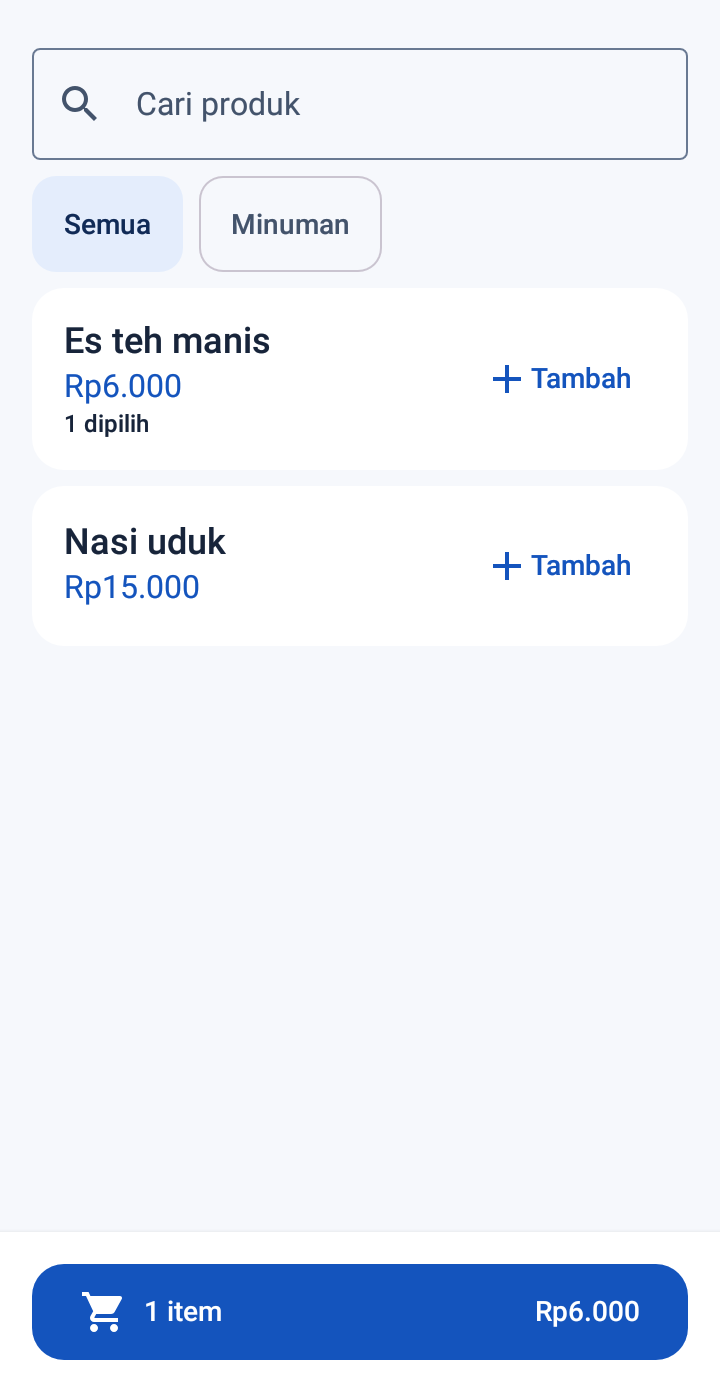
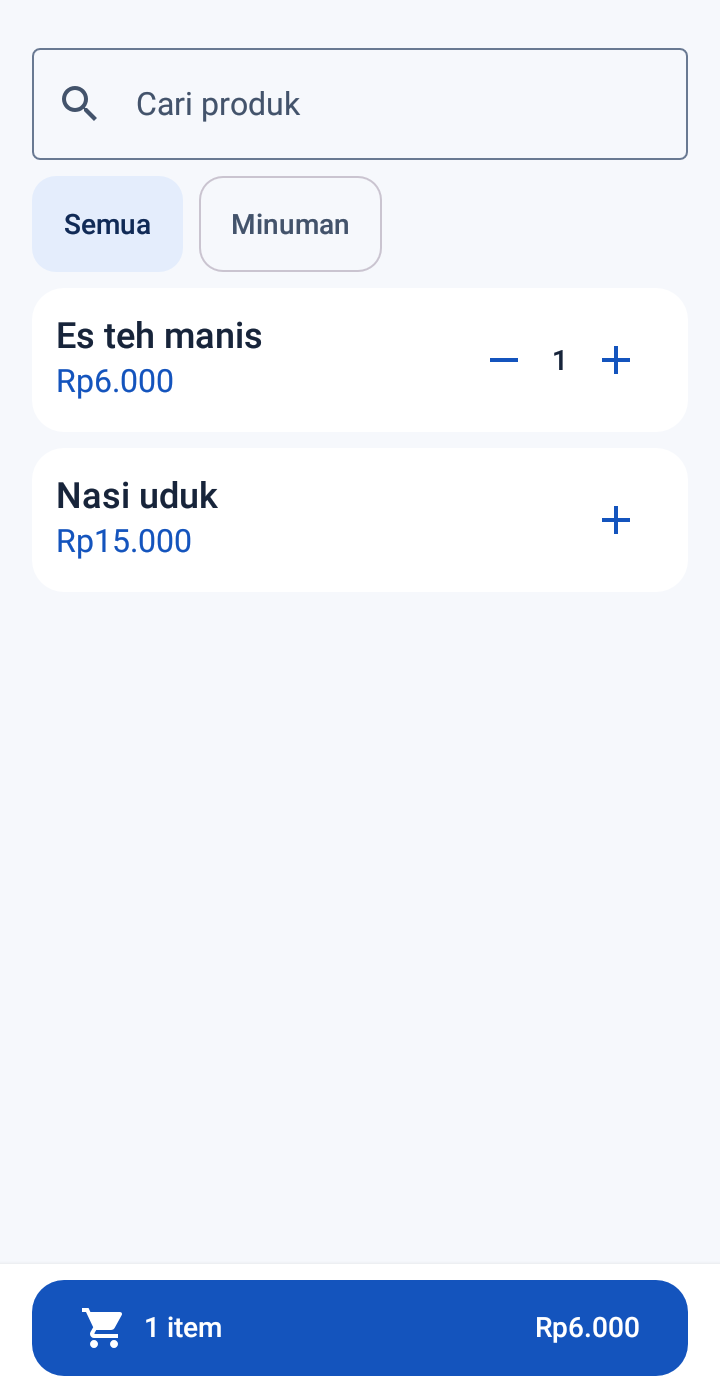
Finalize Phase 2 Android quality checks

diff --git a/app/src/main/java/id/umkmku/pos/ui/Screens.kt b/app/src/main/java/id/umkmku/pos/ui/Screens.kt
@@ -15,7 +15,6 @@ import androidx.compose.foundation.lazy.items
 import androidx.compose.foundation.rememberScrollState
 import androidx.compose.material.icons.Icons
 import androidx.compose.material.icons.automirrored.filled.ArrowForward
-import androidx.compose.material.icons.filled.Add
 import androidx.compose.material.icons.filled.Search
 import androidx.compose.material.icons.filled.ShoppingCart
 import androidx.compose.material3.Button
@@ -107,7 +106,7 @@ private fun CatalogCount(count: Int, label: String, modifier: Modifier = Modifie
 fun Cashier(
     state: CatalogState,
     quantities: Map<String, Int>,
-    onAdd: (String) -> Unit,
+    onQuantity: (String, Int) -> Unit,
     onCart: () -> Unit,
     onCatalog: () -> Unit,
     onRetry: () -> Unit,
@@ -152,16 +151,15 @@ fun Cashier(
                 if (products.isEmpty()) item { MessagePanel("Produk tidak ditemukan", "Ubah kata kunci atau pilih kategori lain.") }
                 items(products, key = { it.id }) { product ->
                     val count = quantities[product.id] ?: 0
-                    Panel {
+                    Panel(contentPadding = Space.md) {
                         Row(verticalAlignment = Alignment.CenterVertically, horizontalArrangement = Arrangement.spacedBy(Space.sm)) {
                             Column(Modifier.weight(1f)) {
                                 Text(product.name, style = MaterialTheme.typography.titleMedium)
                                 Text(rupiah(product.price), color = MaterialTheme.colorScheme.primary)
-                                if (count > 0) Text("$count dipilih", style = MaterialTheme.typography.labelSmall)
                             }
-                            TextButton(onClick = { focus.clearFocus(); onAdd(product.id) }, enabled = count < 9999, modifier = Modifier.heightIn(min = Space.touch)) {
-                                Icon(Icons.Default.Add, null)
-                                Text("Tambah")
+                            QuantityStepper(product.name, count) { delta ->
+                                focus.clearFocus()
+                                onQuantity(product.id, delta)
                             }
                         }
                     }
@@ -177,7 +175,7 @@ private fun CartBar(lines: List<CartLine>, onCart: () -> Unit) {
     Surface(color = MaterialTheme.colorScheme.surface, shadowElevation = Space.xs) {
         Button(
             onClick = onCart,
-            modifier = Modifier.fillMaxWidth().padding(Space.page).heightIn(min = Space.touch),
+            modifier = Modifier.fillMaxWidth().padding(horizontal = Space.page, vertical = Space.sm).heightIn(min = Space.touch),
             shape = MaterialTheme.shapes.medium,
         ) {
             Icon(Icons.Default.ShoppingCart, null)
@@ -189,17 +187,15 @@ private fun CartBar(lines: List<CartLine>, onCart: () -> Unit) {
 
 @Composable
 fun CartScreen(lines: List<CartLine>, onQuantity: (String, Int) -> Unit) {
-    LazyColumn(contentPadding = PaddingValues(Space.page), verticalArrangement = Arrangement.spacedBy(Space.sm)) {
+    LazyColumn(Modifier.fillMaxSize().testTag("cart"), contentPadding = PaddingValues(Space.page), verticalArrangement = Arrangement.spacedBy(Space.sm)) {
         if (lines.isEmpty()) item { MessagePanel("Keranjang kosong", "Tambahkan produk dari Kasir.") }
         items(lines, key = { it.product.id }) { line ->
-            Panel {
+            Panel(contentPadding = Space.md) {
                 Text(line.product.name, style = MaterialTheme.typography.titleMedium)
                 Text("${line.quantity} × ${rupiah(line.product.price)}", color = MaterialTheme.colorScheme.onSurfaceVariant)
                 Row(verticalAlignment = Alignment.CenterVertically) {
                     Text(rupiah(line.subtotal), Modifier.weight(1f), style = MaterialTheme.typography.titleMedium)
-                    TextButton({ onQuantity(line.product.id, -1) }, modifier = Modifier.heightIn(min = Space.touch)) { Text("Kurangi") }
-                    TextButton({ onQuantity(line.product.id, 1) }, enabled = line.quantity < 9999,
-                        modifier = Modifier.heightIn(min = Space.touch)) { Text("Tambah") }
+                    QuantityStepper(line.product.name, line.quantity) { onQuantity(line.product.id, it) }
                 }
             }
         }
@@ -228,7 +224,7 @@ private fun DashboardPreview() {
 private fun CashierPreview() {
     WarungTheme {
         Surface(color = MaterialTheme.colorScheme.background) {
-            Cashier(CatalogState.Ready(previewCatalog), mapOf("1" to 1), {}, {}, {}, {})
+            Cashier(CatalogState.Ready(previewCatalog), mapOf("1" to 1), { _, _ -> }, {}, {}, {})
         }
     }
 }

diff --git a/app/src/androidTest/java/id/umkmku/pos/ScreenTest.kt b/app/src/androidTest/java/id/umkmku/pos/ScreenTest.kt
@@ -2,10 +2,19 @@ package id.umkmku.pos
 
 import android.graphics.Bitmap
 import android.graphics.BitmapFactory
+import androidx.compose.foundation.layout.Box
 import androidx.compose.foundation.layout.fillMaxSize
+import androidx.compose.foundation.layout.width
 import androidx.compose.material3.MaterialTheme
 import androidx.compose.material3.Surface
+import androidx.compose.runtime.CompositionLocalProvider
 import androidx.compose.runtime.mutableStateOf
+import androidx.compose.ui.platform.LocalDensity
+import androidx.compose.ui.unit.Density
+import androidx.compose.ui.unit.dp
+import androidx.compose.ui.test.onNodeWithContentDescription
+import id.umkmku.pos.domain.CartLine
+import id.umkmku.pos.ui.CartScreen
 import androidx.compose.ui.Modifier
 import androidx.compose.ui.graphics.asAndroidBitmap
 import androidx.compose.ui.test.assertIsDisplayed
@@ -54,7 +63,7 @@ class ScreenTest {
         val state = mutableStateOf<CatalogState>(CatalogState.Ready(Catalog()))
         var openedCatalog = false
         compose.setContent {
-            WarungTheme { Cashier(state.value, emptyMap(), {}, {}, { openedCatalog = true }, {}) }
+            WarungTheme { Cashier(state.value, emptyMap(), { _, _ -> }, {}, { openedCatalog = true }, {}) }
         }
         compose.onNodeWithText("Belum ada produk").assertIsDisplayed()
         compose.onNodeWithText("Kelola katalog").performClick()
@@ -81,12 +90,42 @@ class ScreenTest {
         compose.setContent {
             WarungTheme {
                 Surface(Modifier.fillMaxSize(), color = MaterialTheme.colorScheme.background) {
-                    Cashier(CatalogState.Ready(fixture), mapOf("tea" to 1), {}, {}, {}, {})
+                    Cashier(CatalogState.Ready(fixture), mapOf("tea" to 1), { _, _ -> }, {}, {}, {})
                 }
             }
         }
         compose.onNodeWithText("1 item").assertIsDisplayed()
         compareScreenshot("cashier")
+    }
+
+    @Test fun longNameAndStepperFit320DpAt200Percent() {
+        val product = Product("long", "Paket nasi uduk ayam goreng sambal dan lalapan untuk keluarga", 15000, null)
+        val count = mutableStateOf(1)
+        compose.setContent {
+            WarungTheme {
+                CompositionLocalProvider(LocalDensity provides Density(LocalDensity.current.density, 2f)) {
+                    Box(Modifier.width(320.dp)) {
+                        CartScreen(listOf(CartLine(product, count.value))) { _, delta -> count.value += delta }
+                    }
+                }
+            }
+        }
+        compose.onNodeWithText(product.name).assertIsDisplayed()
+        compose.onNodeWithContentDescription("Tambah ${product.name}").performClick()
+        compose.onNodeWithContentDescription("2 item ${product.name}").assertIsDisplayed()
+        compose.onNodeWithContentDescription("Kurangi ${product.name}").performClick()
+        compose.onNodeWithContentDescription("1 item ${product.name}").assertIsDisplayed()
+    }
+
+    @Test fun cartScreenshot() {
+        compose.setContent {
+            WarungTheme {
+                Surface(Modifier.fillMaxSize(), color = MaterialTheme.colorScheme.background) {
+                    CartScreen(listOf(CartLine(fixture.products.first(), 1))) { _, _ -> }
+                }
+            }
+        }
+        compareScreenshot("cart")
     }
 
     private fun compareScreenshot(name: String) {

diff --git a/app/src/main/java/id/umkmku/pos/ui/QuantityStepper.kt b/app/src/main/java/id/umkmku/pos/ui/QuantityStepper.kt
@@ -1,0 +1,43 @@
+package id.umkmku.pos.ui
+
+import androidx.compose.foundation.layout.Row
+import androidx.compose.foundation.layout.size
+import androidx.compose.material.icons.Icons
+import androidx.compose.material.icons.filled.Add
+import androidx.compose.material3.Icon
+import androidx.compose.material3.IconButton
+import androidx.compose.material3.MaterialTheme
+import androidx.compose.material3.Text
+import androidx.compose.runtime.Composable
+import androidx.compose.ui.Alignment
+import androidx.compose.ui.Modifier
+import androidx.compose.ui.graphics.vector.ImageVector
+import androidx.compose.ui.semantics.LiveRegionMode
+import androidx.compose.ui.semantics.contentDescription
+import androidx.compose.ui.semantics.liveRegion
+import androidx.compose.ui.semantics.semantics
+import androidx.compose.ui.text.style.TextAlign
+import androidx.compose.ui.res.vectorResource
+import id.umkmku.pos.R
+import id.umkmku.pos.domain.MAX_CART_QUANTITY
+
+@Composable
+internal fun QuantityStepper(name: String, quantity: Int, onChange: (Int) -> Unit) {
+    Row(verticalAlignment = Alignment.CenterVertically) {
+        if (quantity > 0) {
+            IconButton({ onChange(-1) }, Modifier.size(Space.touch)) {
+                Icon(ImageVector.vectorResource(R.drawable.ic_remove), "Kurangi $name",
+                    tint = MaterialTheme.colorScheme.primary)
+            }
+            Text(quantity.toString(), Modifier.semantics {
+                contentDescription = "$quantity item $name"
+                liveRegion = LiveRegionMode.Polite
+            }, textAlign = TextAlign.Center, style = MaterialTheme.typography.labelLarge)
+        }
+        IconButton({ onChange(1) }, Modifier.size(Space.touch), enabled = quantity < MAX_CART_QUANTITY) {
+            Icon(Icons.Default.Add, "Tambah $name",
+                tint = if (quantity < MAX_CART_QUANTITY) MaterialTheme.colorScheme.primary
+                    else MaterialTheme.colorScheme.onSurfaceVariant.copy(alpha = 0.38f))
+        }
+    }
+}

diff --git a/app/src/main/java/id/umkmku/pos/feature/CatalogViewModel.kt b/app/src/main/java/id/umkmku/pos/feature/CatalogViewModel.kt
@@ -8,6 +8,9 @@ import id.umkmku.pos.domain.Catalog
 import id.umkmku.pos.domain.CatalogException
 import id.umkmku.pos.domain.CatalogRepository
 import id.umkmku.pos.domain.EditCatalog
+import id.umkmku.pos.domain.MAX_CART_PRODUCTS
+import id.umkmku.pos.domain.MAX_CART_QUANTITY
+import id.umkmku.pos.domain.restoreCart
 import javax.inject.Inject
 import kotlinx.coroutines.CancellationException
 import kotlinx.coroutines.Job
@@ -34,9 +37,7 @@ class CatalogViewModel @Inject constructor(
     private val _save = MutableStateFlow(SaveState())
     val save = _save.asStateFlow()
     private val _cart = MutableStateFlow(
-        savedState.get<ArrayList<String>>("cart").orEmpty().associate {
-            it.substringBefore(':') to it.substringAfter(':').toInt()
-        }
+        restoreCart((savedState.get<Any>("cart") as? List<*>).orEmpty())
     )
     val cart = _cart.asStateFlow()
     private var readJob: Job? = null
@@ -63,7 +64,8 @@ class CatalogViewModel @Inject constructor(
 
     fun changeQuantity(id: String, delta: Int) {
         val changed = _cart.value.toMutableMap()
-        val quantity = ((changed[id] ?: 0) + delta).coerceIn(0, 9999)
+        if (id !in changed && changed.size >= MAX_CART_PRODUCTS) return
+        val quantity = ((changed[id] ?: 0) + delta).coerceIn(0, MAX_CART_QUANTITY)
         if (quantity == 0) changed.remove(id) else changed[id] = quantity
         storeCart(changed)
     }

diff --git a/app/src/androidTest/java/id/umkmku/pos/CatalogFlowTest.kt b/app/src/androidTest/java/id/umkmku/pos/CatalogFlowTest.kt
@@ -7,6 +7,7 @@ import androidx.compose.ui.test.assertCountEquals
 import androidx.compose.ui.test.assertIsDisplayed
 import androidx.compose.ui.test.junit4.createAndroidComposeRule
 import androidx.compose.ui.test.onAllNodesWithText
+import androidx.compose.ui.test.onNodeWithContentDescription
 import androidx.compose.ui.test.onNodeWithText
 import androidx.compose.ui.test.performClick
 import androidx.compose.ui.test.performTextInput
@@ -51,7 +52,7 @@ class CatalogFlowTest {
         }
         click("Kasir")
         compose.onNodeWithText("Cari produk").performTextInput(product)
-        click("Tambah")
+        compose.onNodeWithContentDescription("Tambah $product").performClick()
         if (capture) screenshot("kasir-keranjang")
         click("1 item")
         compose.onNodeWithText("Total keranjang").assertIsDisplayed()

diff --git a/app/src/main/java/id/umkmku/pos/domain/CartState.kt b/app/src/main/java/id/umkmku/pos/domain/CartState.kt
@@ -1,0 +1,17 @@
+package id.umkmku.pos.domain
+
+internal const val MAX_CART_PRODUCTS = 200
+internal const val MAX_CART_QUANTITY = 9999
+
+internal fun restoreCart(entries: List<*>): Map<String, Int> {
+    val restored = linkedMapOf<String, Int>()
+    for (entry in entries.take(MAX_CART_PRODUCTS)) {
+        val encoded = entry as? String ?: continue
+        val id = encoded.substringBefore(':')
+        val count = encoded.substringAfter(':', "").toIntOrNull()
+        if (id.isNotBlank() && id.length <= 64 && count != null && count in 1..MAX_CART_QUANTITY) {
+            restored.putIfAbsent(id, count)
+        }
+    }
+    return restored
+}

diff --git a/app/src/main/java/id/umkmku/pos/ui/Design.kt b/app/src/main/java/id/umkmku/pos/ui/Design.kt
@@ -85,12 +85,12 @@ fun WarungTheme(content: @Composable () -> Unit) {
 }
 
 @Composable
-fun Panel(modifier: Modifier = Modifier, content: @Composable () -> Unit) {
+fun Panel(modifier: Modifier = Modifier, contentPadding: androidx.compose.ui.unit.Dp = Space.page, content: @Composable () -> Unit) {
     Surface(
         modifier = modifier.fillMaxWidth(),
         shape = MaterialTheme.shapes.medium,
         color = MaterialTheme.colorScheme.surface,
-    ) { Column(Modifier.padding(Space.page), content = { content() }) }
+    ) { Column(Modifier.padding(contentPadding), content = { content() }) }
 }
 
 @Composable

diff --git a/app/src/test/java/id/umkmku/pos/domain/CatalogTest.kt b/app/src/test/java/id/umkmku/pos/domain/CatalogTest.kt
@@ -6,6 +6,13 @@ import org.junit.Assert.assertThrows
 import org.junit.Test
 
 class CatalogTest {
+    @Test fun restorationIgnoresMalformedDuplicateAndOutOfRangeCartRows() {
+        assertEquals(mapOf("tea" to 2, "rice" to 9999), restoreCart(
+            listOf("tea:2", "tea:4", "rice:9999", "bad", "x:10000", ":1", "z:-1", 123)
+        ))
+        assertEquals(MAX_CART_PRODUCTS, restoreCart(List(300) { "product$it:1" }).size)
+    }
+
     @Test fun priceUsesBoundedIntegerRupiah() {
         assertEquals(15000L, parsePrice("15000"))
         assertEquals(999999999L, parsePrice("999999999"))

diff --git a/app/src/main/java/id/umkmku/pos/ui/WarungApp.kt b/app/src/main/java/id/umkmku/pos/ui/WarungApp.kt
@@ -105,7 +105,7 @@ fun WarungApp(model: CatalogViewModel) {
                 Dashboard(state, { openTab(Tab.CASHIER) }, { openTab(Tab.CATALOG) }, model::reload)
             }
             composable(Tab.CASHIER.route) {
-                Cashier(state, quantities, { model.changeQuantity(it, 1) }, { nav.navigate(CART) },
+                Cashier(state, quantities, model::changeQuantity, { nav.navigate(CART) },
                     { openTab(Tab.CATALOG) }, model::reload)
             }
             composable(Tab.CATALOG.route) {

diff --git a/docs/phase-2/testing.md b/docs/phase-2/testing.md
@@ -34,3 +34,9 @@ Phase 2 exercises the catalog and reopen portion of A01 and A02, the draft/cart 
 - JUnit local suite passed 3 tests. The API 28 connected suite passed 6 tests, including both screenshot baselines.
 - Verified process restart with adb force-stop and launch. The PID changed and Kasir still showed the saved product, Rp6.000 price, and Minuman category.
 - See [full-window emulator evidence](screenshots/README.md).
+
+## Phase 2 quality gate
+
+CI builds the debug application and runs JUnit on pull requests. Locally, the debug build passed with 4 unit tests and 8 API 28 emulator tests. The compact steppers retained 48 dp touch targets and were exercised with a long product name in a 320 dp layout at 200% font size. Cart restoration now drops malformed rows and bounds its saved payload.
+
+Intentionally reviewed and refreshed the Cashier and Cart screenshots after adjusting row spacing and replacing quantity text buttons. The Dashboard baseline remained byte-for-byte identical.
